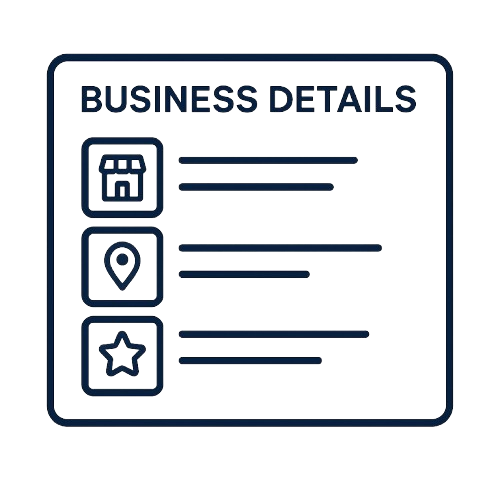
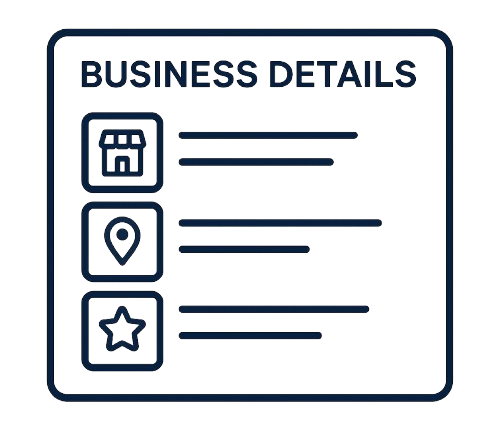
image changes

diff --git a/components/streamlinereviews_feature.tsx b/components/streamlinereviews_feature.tsx
@@ -65,7 +65,7 @@ const StreamlineProcessSection = () => {
                   src={feature.imagePath}
                   alt={feature.title}
                   fill
-                  className="object-contain"
+                  className="object-cover"
                 />
               </div>
             </div>
